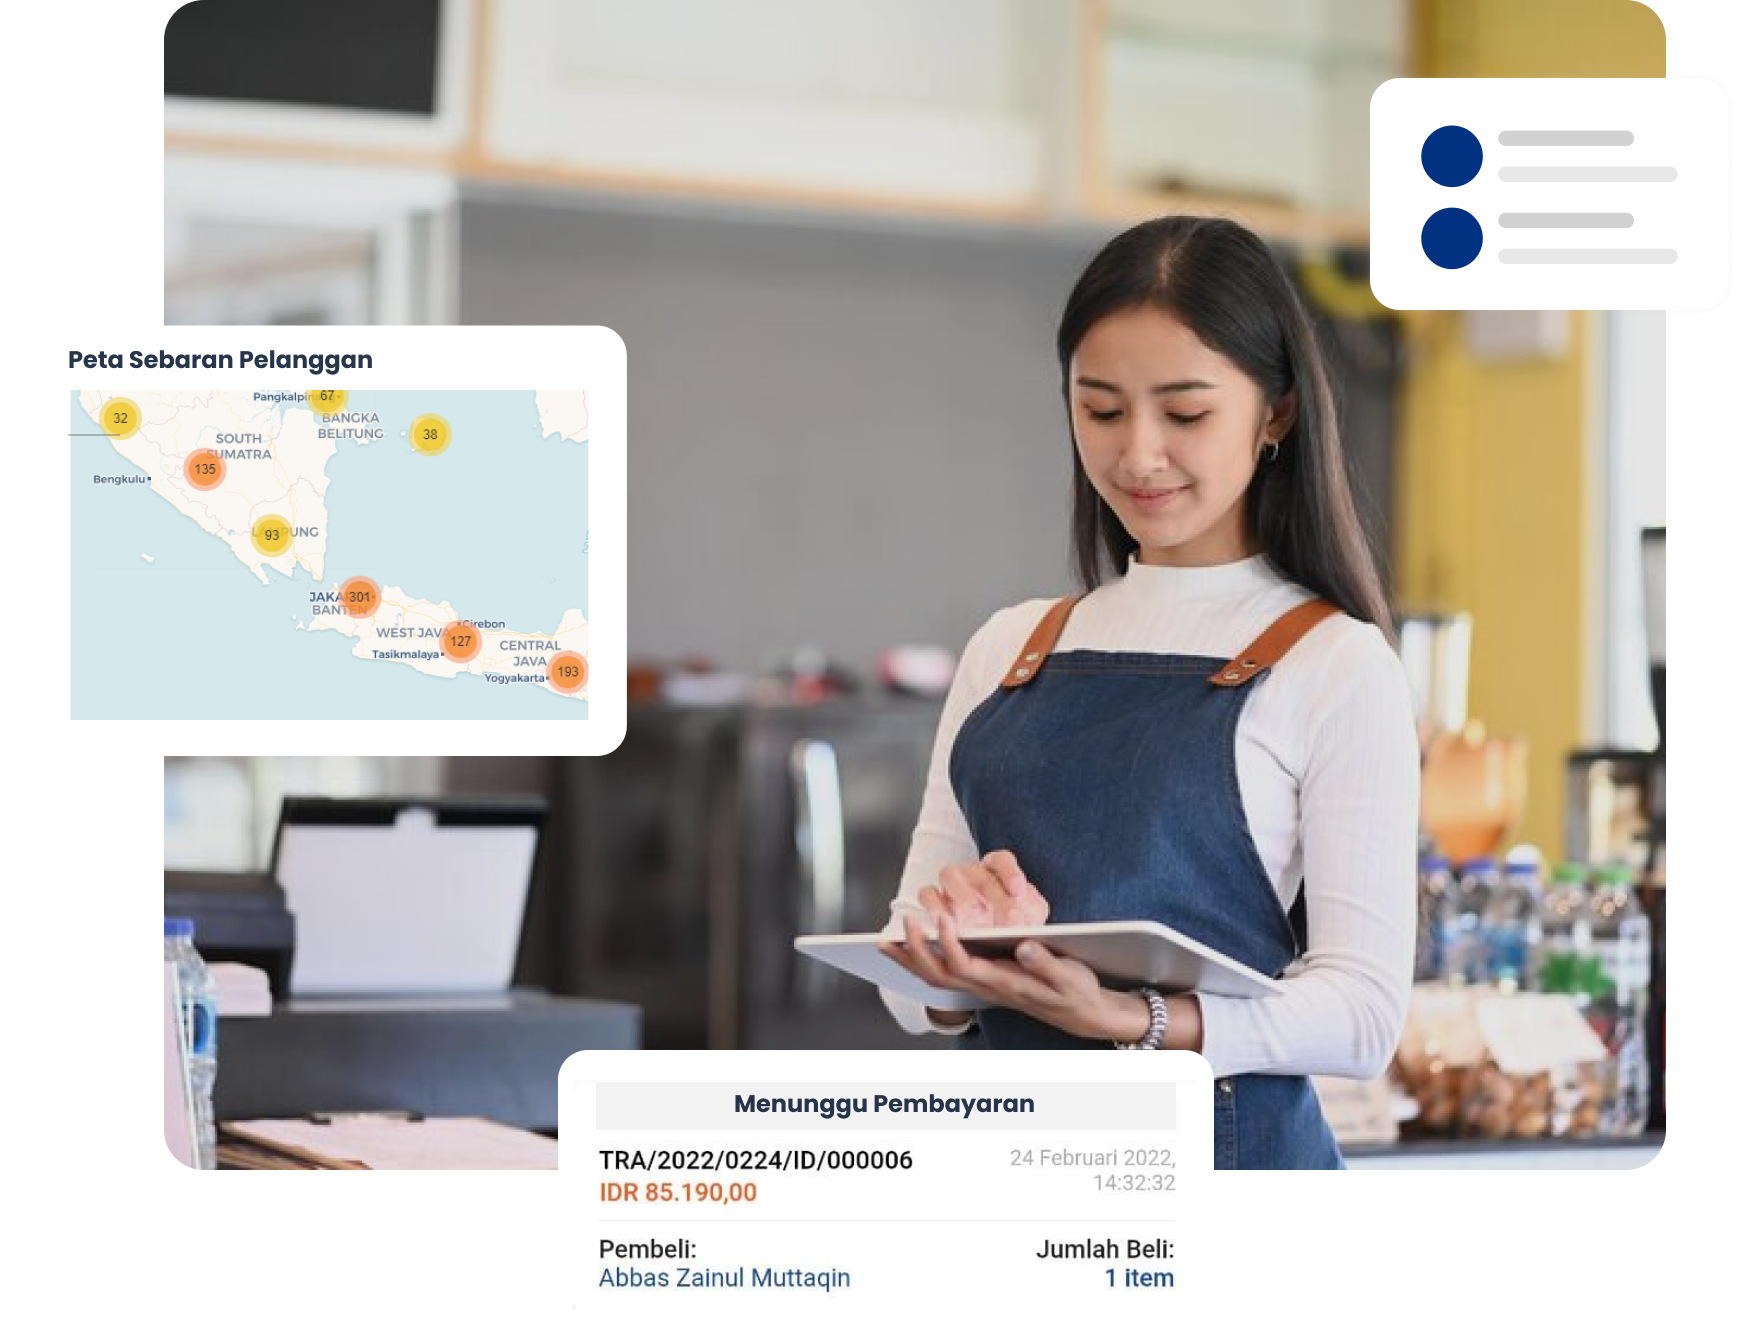
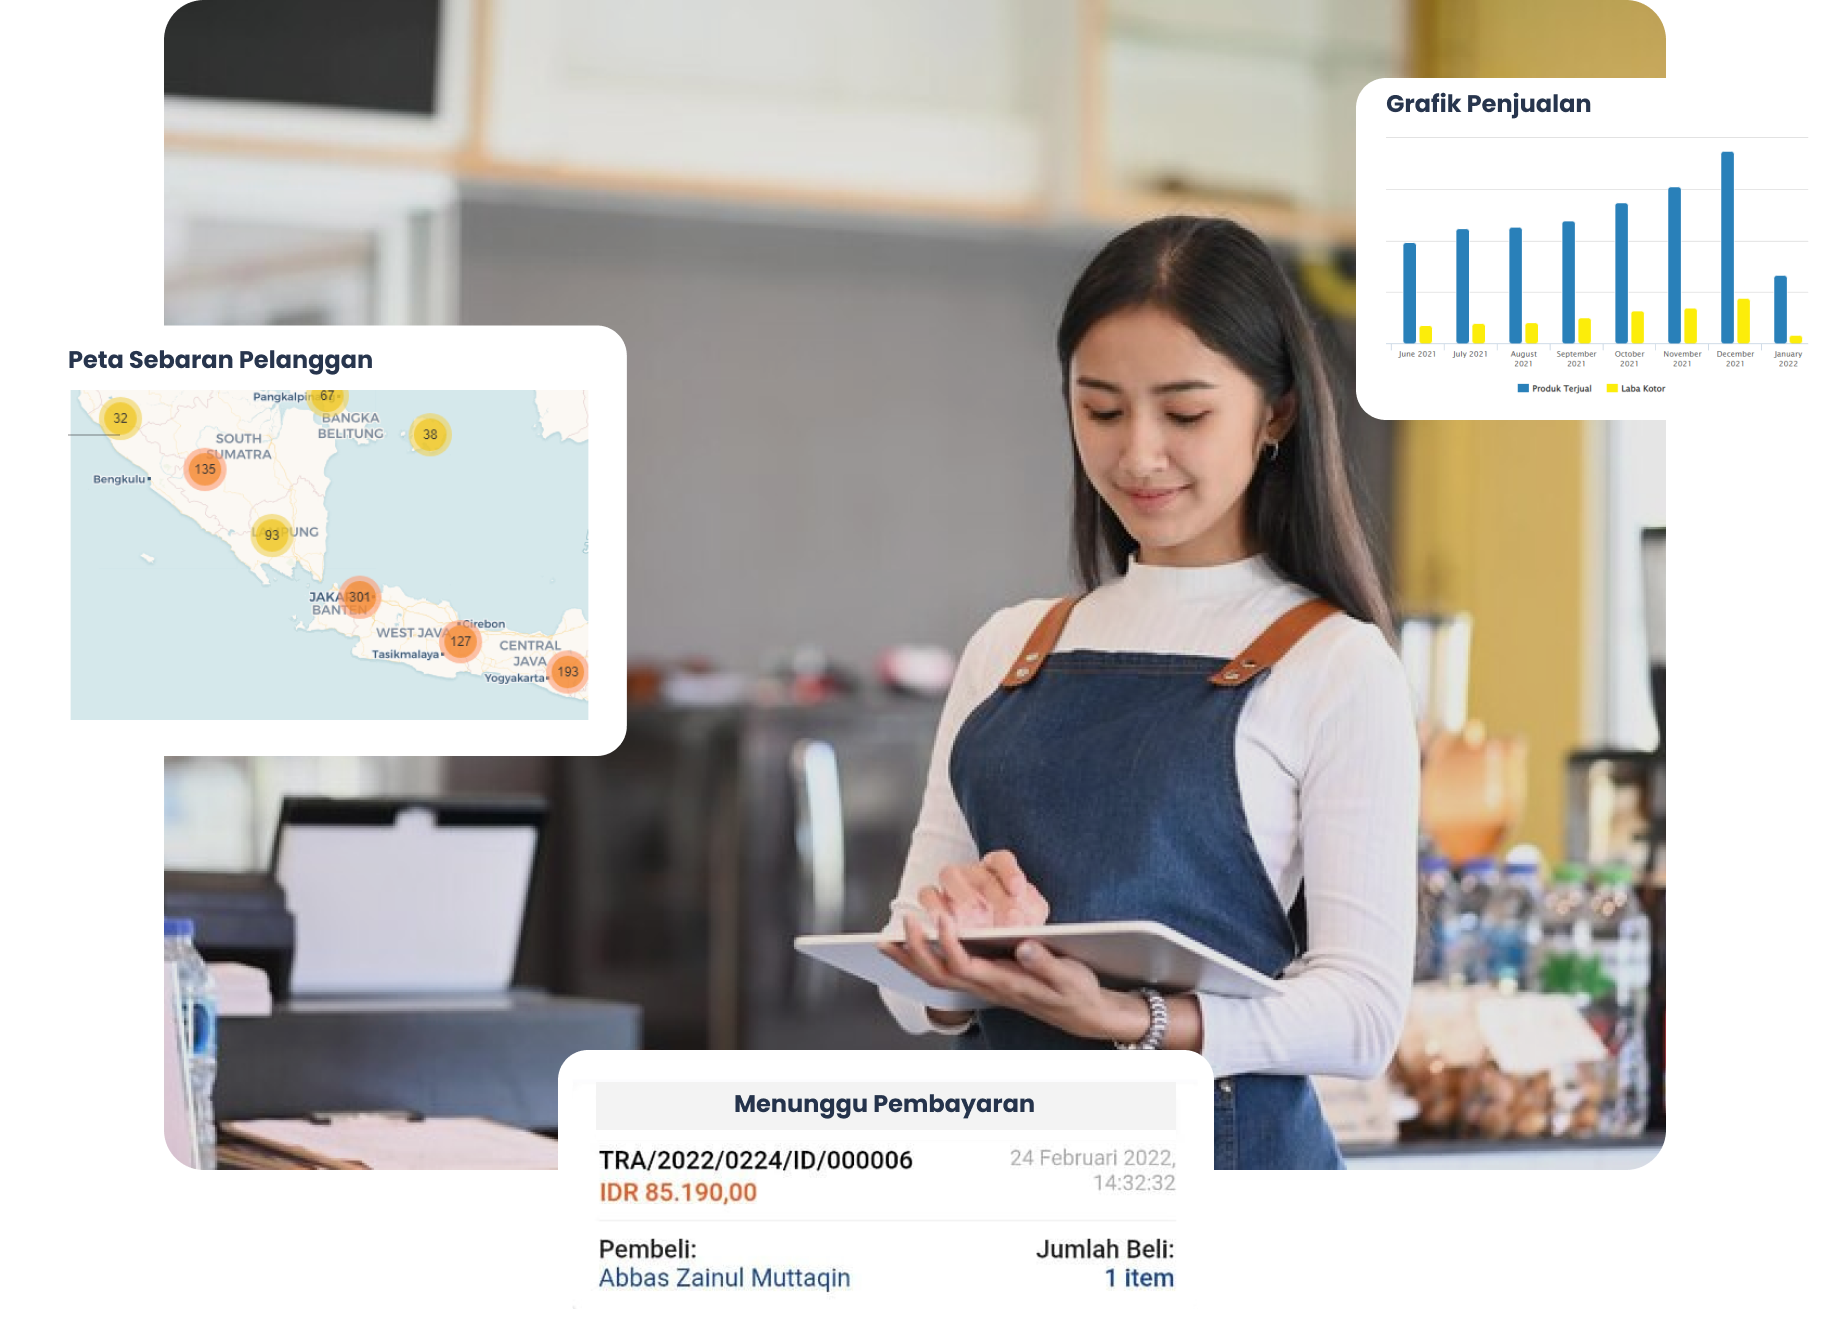
update responsive conclusion

diff --git a/index.html b/index.html
@@ -1477,12 +1477,12 @@
 
            
         <div class="row d-flex">
-           <div class="col-lg-6 col-md-6">
+           <div class="col-lg-6 col-md-8">
              <div class="conclusion-image">
-               <img src="./assets/conclusion-0.png" alt="">
+               <img src="./assets/conclusion-1.png" alt="">
              </div>
            </div>
-           <div class="col-lg-5 col-md-6">
+           <div class="col-lg-5 col-md-12">
             <div class="title">
               <h2 class="title-text conclusion-title">
                 MyCommerce Adalah Kebutuhan Bagi Bisnis Anda
